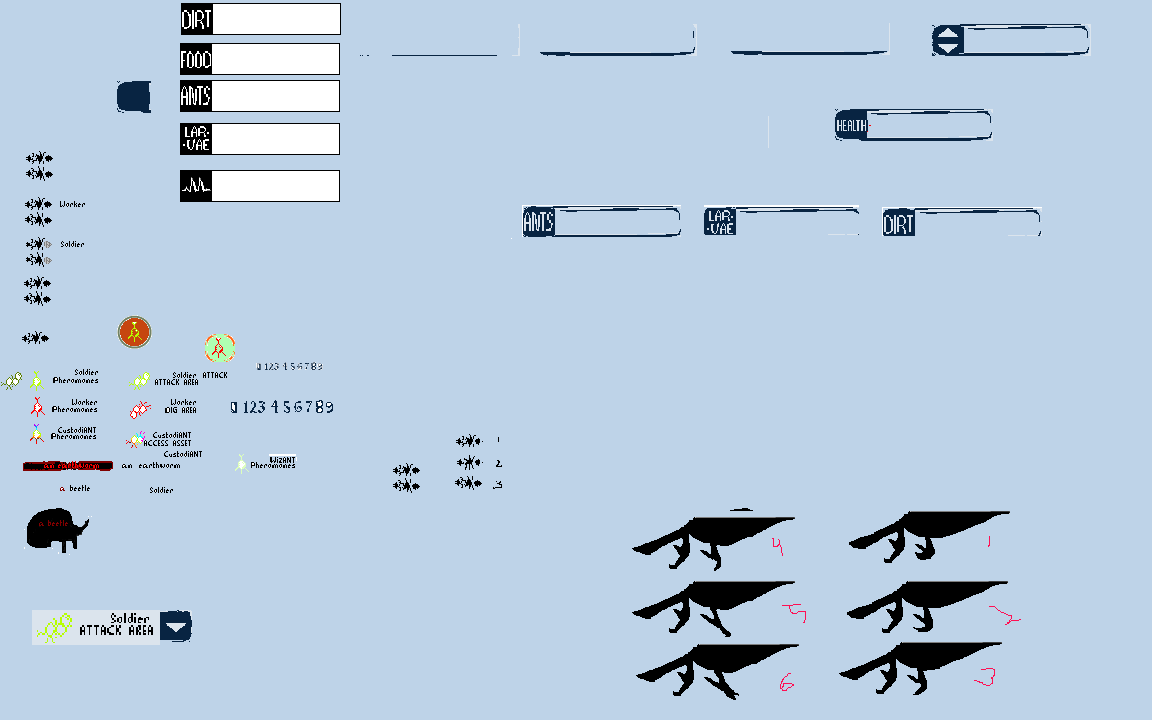
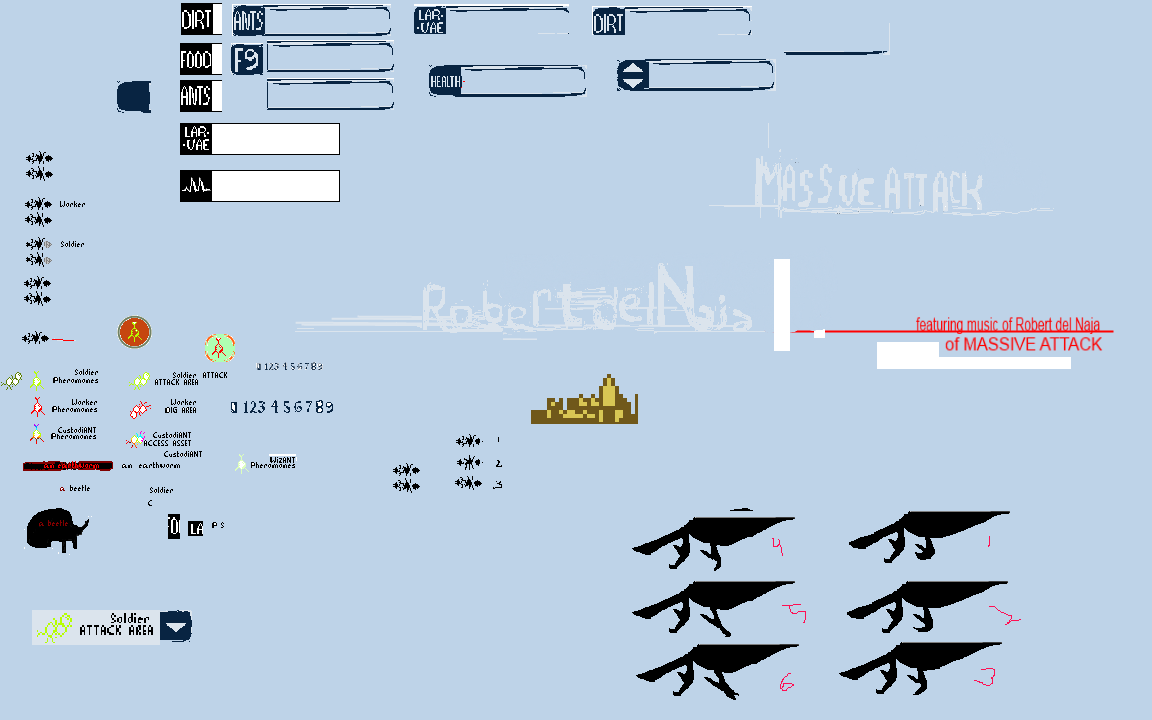
Added splash screen

diff --git a/PuissANT/PuissANT/Game1.cs b/PuissANT/PuissANT/Game1.cs
@@ -27,6 +27,9 @@ namespace PuissANT
         SpriteBatch spriteBatch;
 
         Rectangle GameWindow;
+        Texture2D splashScreen;
+        Texture2D backgroundTop;
+        
 
         Texture2D antTexture;
         
@@ -81,6 +84,10 @@ namespace PuissANT
 
             // Load Cursor Icons
             Texture2D soldierPhermone = Content.Load<Texture2D>("phermones/SoldierPhermone");
+
+            // Load Background textures
+            splashScreen = Content.Load<Texture2D>("ui/splashScreen");
+            backgroundTop = Content.Load<Texture2D>("ui/BackgroundTop");
             
             // Load And Play Music.
             try
@@ -266,18 +273,33 @@ namespace PuissANT
         protected override void Draw(GameTime gameTime)
         {
             //new Color(255,211,155)
-            GraphicsDevice.Clear(new Color(255, 211, 155));
+            GraphicsDevice.Clear(new Color(216, 199, 84));
             TerrainManager.SetTexture();
 
             // TODO: Add your drawing code here
             spriteBatch.Begin();
-            
-            foreach (Actor a in ActorManager.Instance.GetAllActors())
-                a.Render(gameTime, spriteBatch);
 
-            TerrainManager.DrawTerrain(spriteBatch);
-            ScreenManager.Instance.Draw(spriteBatch);
-            PhermoneCursor.Instance.Render(gameTime, spriteBatch);
+            if (!queenPlaced)
+            {
+                TerrainManager.DrawTerrain(spriteBatch);
+                spriteBatch.Draw(splashScreen, Vector2.Zero, Color.White);
+
+                foreach (Actor a in ActorManager.Instance.GetAllActors())
+                    a.Render(gameTime, spriteBatch);
+
+                PhermoneCursor.Instance.Render(gameTime, spriteBatch);
+            }
+            else
+            {
+                spriteBatch.Draw(backgroundTop, Vector2.Zero, Color.White);
+
+                foreach (Actor a in ActorManager.Instance.GetAllActors())
+                    a.Render(gameTime, spriteBatch);
+
+                TerrainManager.DrawTerrain(spriteBatch);
+                ScreenManager.Instance.Draw(spriteBatch);
+                PhermoneCursor.Instance.Render(gameTime, spriteBatch);
+            }
 
             spriteBatch.End();
 
